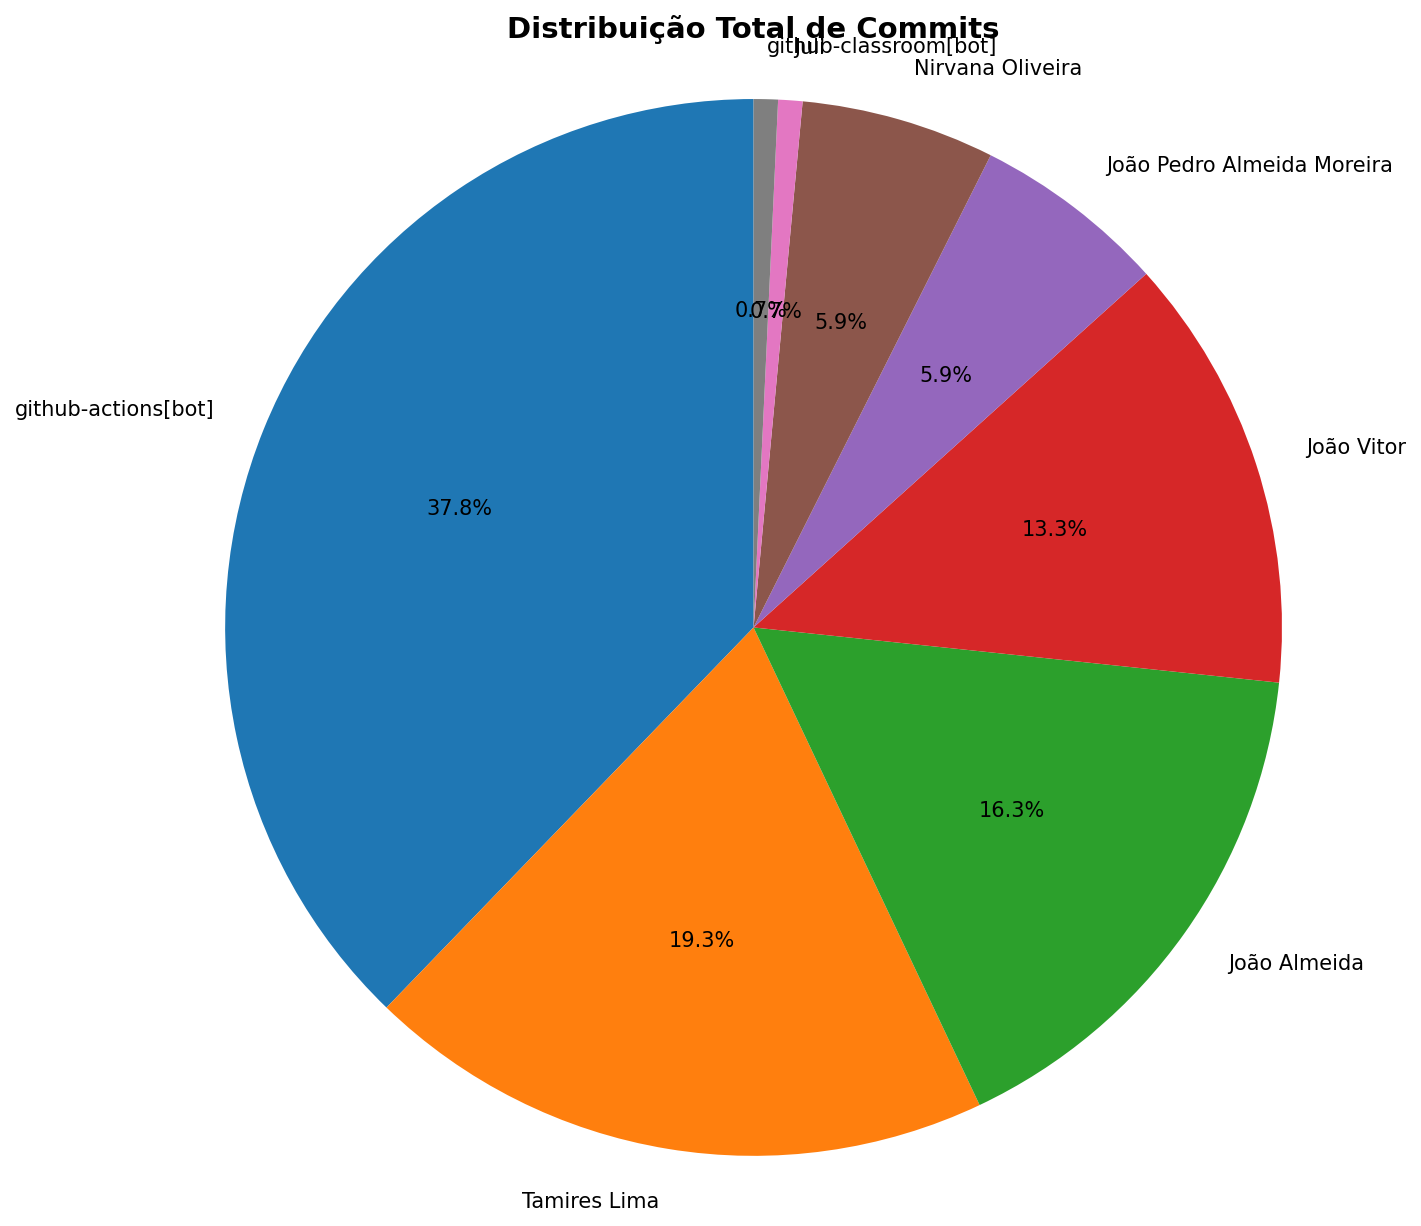
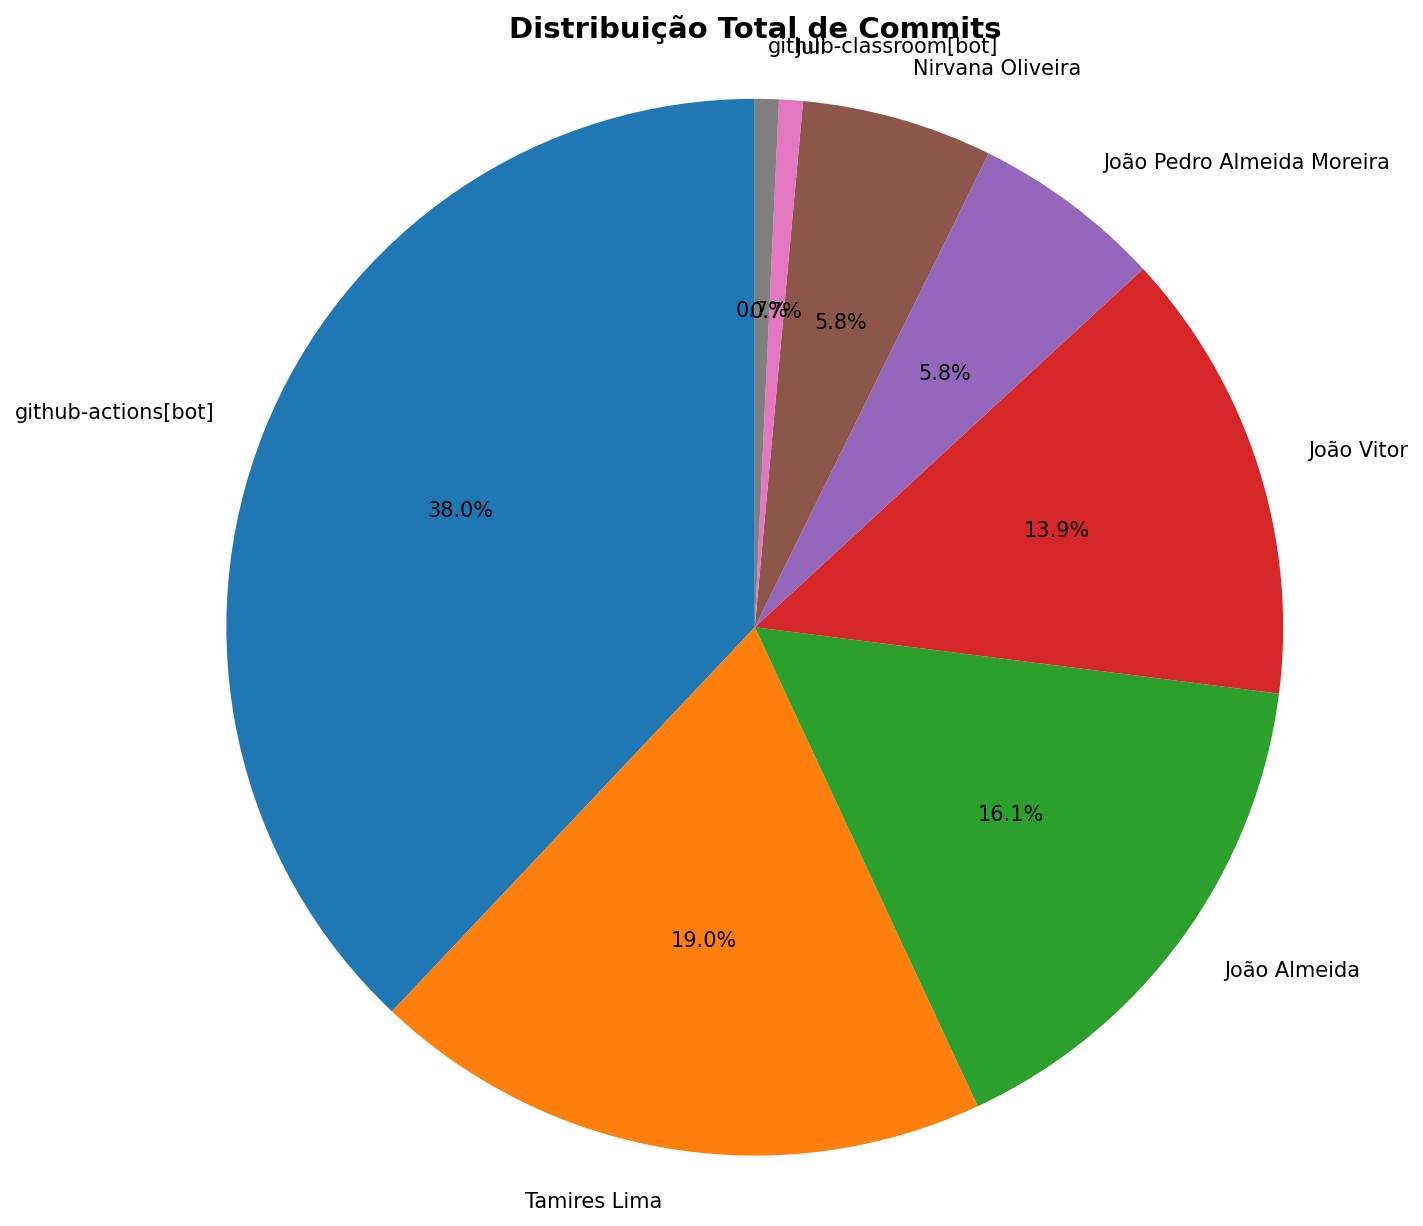
Atualizações

diff --git a/documentos/CONTRIBUTION_REPORT.md b/documentos/CONTRIBUTION_REPORT.md
@@ -1,6 +1,6 @@
 # 📊 Relatório de Contribuições do Projeto
 
-**Última atualização:** 27/05/2026 22:06
+**Última atualização:** 02/06/2026 22:30
 
 ---
 
@@ -10,33 +10,31 @@
 |----------------------------|-----------|-----------|-----------|------------|----------------|-----------------|
 | João Almeida               |        22 |      2420 |       660 |         44 |              2 |               0 |
 | João Pedro Almeida Moreira |         8 |        26 |        20 |          4 |              7 |               2 |
-| João Vitor                 |        18 |       297 |        89 |         13 |             11 |               2 |
+| João Vitor                 |        19 |       432 |       190 |         13 |             11 |               2 |
 | Juli                       |         1 |        58 |         9 |          3 |              0 |               0 |
 | Nirvana Oliveira           |         8 |       747 |        94 |         15 |              1 |               0 |
 | Tamires Lima               |        26 |       405 |       156 |         30 |             21 |               3 |
-| github-actions[bot]        |        51 |       360 |       294 |          3 |             51 |               1 |
+| github-actions[bot]        |        52 |       364 |       298 |          3 |             52 |               1 |
 | github-classroom[bot]      |         1 |       774 |         0 |         19 |              1 |               3 |
 
 
 ## 📅 Contribuições Semanais (Todo o Semestre)
 
-**2026-05-20**: João Almeida: 6, João Vitor: 3, Tamires Lima: 1, github-actions[bot]: 6
+**2026-05-26**: João Almeida: 6, João Vitor: 4, github-actions[bot]: 6
 
-**2026-05-13**: João Vitor: 2, Tamires Lima: 4, github-actions[bot]: 3
+**2026-05-19**: João Almeida: 1, João Vitor: 2, Tamires Lima: 5, github-actions[bot]: 4
 
-**2026-05-06**: João Almeida: 8, João Pedro Almeida Moreira: 3, João Vitor: 2, Juli: 1, Nirvana Oliveira: 5, Tamires Lima: 7, github-actions[bot]: 16
+**2026-05-05**: João Almeida: 13, João Pedro Almeida Moreira: 4, João Vitor: 2, Juli: 1, Nirvana Oliveira: 5, Tamires Lima: 8, github-actions[bot]: 21
 
-**2026-04-29**: João Almeida: 6, João Pedro Almeida Moreira: 1, Nirvana Oliveira: 3, Tamires Lima: 2, github-actions[bot]: 9
+**2026-04-28**: João Almeida: 1, Nirvana Oliveira: 3, Tamires Lima: 1, github-actions[bot]: 4
 
-**2026-04-22**: João Almeida: 1, João Vitor: 1, github-actions[bot]: 1
+**2026-04-21**: João Almeida: 1, João Vitor: 1, github-actions[bot]: 1
 
-**2026-04-08**: João Pedro Almeida Moreira: 4, João Vitor: 10, Tamires Lima: 9, github-actions[bot]: 15
+**2026-04-07**: João Pedro Almeida Moreira: 4, João Vitor: 10, Tamires Lima: 10, github-actions[bot]: 16
 
-**2026-04-01**: Tamires Lima: 1, github-actions[bot]: 1
+**2026-03-24**: Tamires Lima: 2
 
-**2026-03-25**: Tamires Lima: 2
-
-**2026-03-18**: github-classroom[bot]: 1
+**2026-03-17**: github-classroom[bot]: 1
 
 
 
